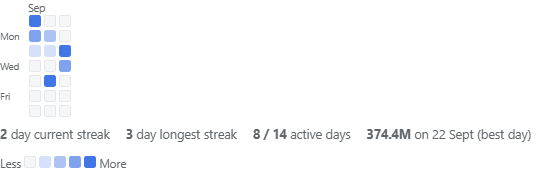
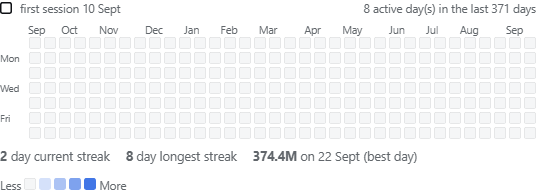
feat: dedupe the page, anchor the calendar to the right, mark the first session
- host: the contribution window is a fixed 53 weeks (newest day last), the wire
  carries only days with activity, and firstDay/firstSessionAt ride along
- client: expand the sparse calendar, ring the first-session day and name it in
  the caption; a year of empty squares stays to its left
- client: the header is identity only (no stat block, no badge wall) so no number
  is printed twice; tile hints became definitions; panel subs and the footer lost
  their duplicates

diff --git a/lib/client.js b/lib/client.js
@@ -137,6 +137,10 @@ window.__ModuleLoader__.load({
       ".dtt-streaks{gap:16px;font-size:12.5px;display:flex;flex-wrap:wrap}",
       ".dtt-streak b{font-variant-numeric:tabular-nums}",
       ".dtt-streak span{color:var(--dsw-alias-label-secondary)}",
+      ".dtt-calCaption{align-items:center;gap:8px;font-size:11.5px;color:var(--dsw-alias-label-secondary);display:flex}",
+      ".dtt-calCaptionSpacer{flex:1 1 auto}",
+      ".dtt-calMarker{width:12px;height:12px;border-radius:3px;box-shadow:inset 0 0 0 1.5px var(--dsw-alias-label-primary);display:inline-block}",
+      ".dtt-calCell[data-first='true']{outline:1.5px solid var(--dsw-alias-label-primary);outline-offset:1px}",
       ".dtt-legendCells{gap:3px;display:inline-flex}"
     ].join("");
 
@@ -763,6 +767,13 @@ window.__ModuleLoader__.load({
       return new Date(Number(parts[0]), Number(parts[1]) - 1, Number(parts[2]));
     }
 
+    /** Local YYYY-MM-DD, matching the host's day keys. */
+    function dayKeyOf(date) {
+      var month = String(date.getMonth() + 1);
+      var day = String(date.getDate());
+      return date.getFullYear() + "-" + (month.length < 2 ? "0" + month : month) + "-" + (day.length < 2 ? "0" + day : day);
+    }
+
     function ProfileHeader(props) {
       var identity = props.identity;
       return h("section", { className: "dtt-profile" }, [
@@ -775,12 +786,6 @@ window.__ModuleLoader__.load({
           h("div", { className: "dtt-handle", key: "handle" }, identity.handle),
           h("p", { className: "dtt-bio", key: "bio" }, identity.bio)
         ]),
-        h("div", { className: "dtt-profileStats", key: "stats" }, props.stats.map(function (stat) {
-          return h("div", { className: "dtt-profileStat", key: stat.label }, [
-            h("b", { key: "value" }, stat.value),
-            h("span", { key: "label" }, stat.label)
-          ]);
-        })),
         h("div", { className: "dtt-badges", key: "badges" }, props.badges.map(function (badge) {
           return h("span", { className: "dtt-badge", key: badge.label, "data-tone": badge.tone }, badge.label);
         }))
@@ -795,8 +800,24 @@ window.__ModuleLoader__.load({
     function ContributionCalendar(props) {
       var calendar = props.calendar;
       var streaks = props.streaks === undefined || props.streaks === null ? {} : props.streaks;
-      var days = calendar === undefined || calendar === null || calendar.days === undefined ? [] : calendar.days;
-      if (days.length === 0) return h("p", { className: "dtt-note" }, "No daily activity recorded yet.");
+      if (calendar === undefined || calendar === null || calendar.start === undefined) {
+        return h("p", { className: "dtt-note" }, "No daily activity recorded yet.");
+      }
+      var recorded = new Map();
+      var recordedDays = calendar.days === undefined ? [] : calendar.days;
+      for (var record = 0; record < recordedDays.length; record += 1) recorded.set(recordedDays[record].day, recordedDays[record]);
+      // The host sends only days with activity; the grid is the whole fixed
+      // window — oldest week on the left, today in the last column — so the days
+      // before the first session stay empty squares.
+      var days = [];
+      var walk = new Date(calendar.start);
+      while (walk.getTime() <= calendar.end) {
+        var key = dayKeyOf(walk);
+        var hit = recorded.get(key);
+        days.push(hit === undefined ? { day: key, sessions: 0, tokens: 0, steps: 0, costUsd: null } : hit);
+        walk = new Date(walk.getFullYear(), walk.getMonth(), walk.getDate() + 1);
+      }
+      var firstKey = calendar.firstDay === undefined || calendar.firstDay === null ? null : calendar.firstDay.day;
 
       var offset = parseDayKey(days[0].day).getDay();
       var weeks = [];
@@ -823,7 +844,8 @@ window.__ModuleLoader__.load({
       };
       var cellTitle = function (entry) {
         var cost = entry.costUsd === null || entry.costUsd === undefined ? "" : " · " + fmtUsd(entry.costUsd);
-        return CAL_WEEKDAYS[parseDayKey(entry.day).getDay()] + " " + fmtDay(entry.day) + " — " + fmtTokens(entry.tokens) + " tokens · " + fmtInt(entry.sessions) + " session(s) · " + fmtInt(entry.steps) + " steps" + cost;
+        var marker = entry.day === firstKey ? " · first session" : "";
+        return CAL_WEEKDAYS[parseDayKey(entry.day).getDay()] + " " + fmtDay(entry.day) + " — " + fmtTokens(entry.tokens) + " tokens · " + fmtInt(entry.sessions) + " session(s) · " + fmtInt(entry.steps) + " steps" + cost + marker;
       };
 
       var seenMonth = null;
@@ -836,7 +858,16 @@ window.__ModuleLoader__.load({
         return h("span", { key: String(weekIndex) }, "");
       });
 
+      var activeDays = streaks.activeDays === undefined ? 0 : streaks.activeDays;
+      var windowDays = streaks.totalDays === undefined ? days.length : streaks.totalDays;
+
       return h("div", { className: "dtt-cal" }, [
+        h("div", { className: "dtt-calCaption", key: "caption" }, [
+          h("span", { className: "dtt-calMarker", key: "marker", "data-first": "true" }),
+          h("span", { key: "first" }, firstKey === null ? "no sessions yet" : "first session " + fmtDay(firstKey)),
+          h("span", { className: "dtt-calCaptionSpacer", key: "spacer" }),
+          h("span", { key: "active" }, fmtInt(activeDays) + " active day(s) in the last " + fmtInt(windowDays) + " days")
+        ]),
         h("div", { className: "dtt-calScroll", key: "scroll" }, [
           h("div", { className: "dtt-calMonths", key: "months" }, monthCells),
           h("div", { className: "dtt-calBody", key: "body" }, [
@@ -852,6 +883,7 @@ window.__ModuleLoader__.load({
                   className: "dtt-calCell",
                   key: String(row),
                   "data-level": String(level),
+                  "data-first": entry.day === firstKey ? "true" : undefined,
                   style: level === 0 ? undefined : { backgroundColor: fill[level] },
                   title: cellTitle(entry)
                 });
@@ -863,7 +895,6 @@ window.__ModuleLoader__.load({
           h("div", { className: "dtt-streaks", key: "streaks" }, [
             h("span", { className: "dtt-streak", key: "current" }, [h("b", { key: "value" }, fmtInt(streaks.current)), h("span", { key: "label" }, " day current streak")]),
             h("span", { className: "dtt-streak", key: "longest" }, [h("b", { key: "value" }, fmtInt(streaks.longest)), h("span", { key: "label" }, " day longest streak")]),
-            h("span", { className: "dtt-streak", key: "active" }, [h("b", { key: "value" }, fmtInt(streaks.activeDays) + " / " + fmtInt(streaks.totalDays)), h("span", { key: "label" }, " active days")]),
             streaks.bestDay === null || streaks.bestDay === undefined ? null : h("span", { className: "dtt-streak", key: "best" }, [
               h("b", { key: "value" }, fmtTokens(streaks.bestDay.tokens)),
               h("span", { key: "label" }, " on " + fmtDay(streaks.bestDay.day) + " (best day)")
@@ -1011,7 +1042,7 @@ window.__ModuleLoader__.load({
           label: "Tokens (billed)",
           value: fmtTokens(totals.totalTokens),
           full: fmtInt(totals.totalTokens),
-          hint: fmtInt(totals.sessions) + " sessions · " + fmtInt(totals.steps) + " steps"
+          hint: "in + out + cache read"
         }),
         h(Kpi, {
           key: "billable",
@@ -1025,7 +1056,7 @@ window.__ModuleLoader__.load({
           label: "Cache reads",
           value: fmtTokens(totals.usage.cacheReadTokens),
           full: fmtInt(totals.usage.cacheReadTokens),
-          hint: fmtPct(totals.cacheHitRate) + " hit rate",
+          hint: "served from prompt cache",
           tone: totals.cacheHitRate !== null && totals.cacheHitRate !== undefined && totals.cacheHitRate >= 0.9 ? "good" : "warn"
         }),
         h(Kpi, {
@@ -1040,7 +1071,7 @@ window.__ModuleLoader__.load({
           key: "turn",
           label: "Per turn",
           value: fmtTokens(totals.avgTokensPerTurn),
-          hint: fmtInt(totals.turns) + " turns total"
+          hint: "billed ÷ turns"
         }),
         h(Kpi, {
           key: "session",
@@ -1067,7 +1098,7 @@ window.__ModuleLoader__.load({
       var chart = h(Panel, {
         key: "chart",
         title: "Activity",
-        sub: byDaySummary(dayRows),
+        sub: "Daily totals in this window",
         actions: h("div", { className: "dtt-chips" }, METRICS.map(function (entry) {
           return h(Chip, { key: entry.key, label: entry.label, on: entry.key === metric, onClick: function () { setMetric(entry.key); } });
         }))
@@ -1076,7 +1107,6 @@ window.__ModuleLoader__.load({
       var breakdown = h(Panel, {
         key: "breakdown",
         title: "Where the tokens went",
-        sub: "Grouped by " + BREAKDOWN_GROUPS.filter(function (entry) { return entry.key === group; })[0].label.toLowerCase(),
         actions: h("div", { className: "dtt-chips" }, BREAKDOWN_GROUPS.map(function (entry) {
           return h(Chip, { key: entry.key, label: entry.label, on: entry.key === group, onClick: function () { setGroup(entry.key); } });
         }))
@@ -1121,7 +1151,7 @@ window.__ModuleLoader__.load({
       var sessionsPanel = h(Panel, {
         key: "sessions",
         title: "Sessions",
-        sub: fmtInt(data.sessionCount) + " sessions in this window · click a row for per-turn detail",
+        sub: fmtInt(sessions.length) + " of " + fmtInt(data.sessionCount) + " shown · click a row for per-turn detail",
         actions: h("div", { className: "dtt-panelHead", style: { flex: "0 1 auto" } },
           h("input", {
             className: "dtt-input dtt-search",
@@ -1145,16 +1175,14 @@ window.__ModuleLoader__.load({
       }));
 
       var footer = h("div", { className: "dtt-footer", key: "footer" }, [
-        h("span", { key: "scan" }, fmtInt(sources.recordFiles) + " session records read in " + fmtInt(sources.scanMs) + " ms"
-          + (sources.liveSessions > 0 ? " · " + fmtInt(sources.liveSessions) + " live session(s) overlaid" : "")),
+        h("span", { key: "scan" }, fmtInt(sources.recordFiles) + " records · " + fmtInt(sources.scanMs) + " ms"),
         h("span", { key: "took" }, "answered in " + fmtInt(data.tookMs) + " ms" + (summary.cached ? " (cached)" : "")),
-        h("span", { key: "tz" }, timezoneName()),
         h("span", { key: "pricing" }, costKnown
           ? "Costs are estimates from the provider catalog (" + fmtInt(pricing.catalogModels) + " priced models) plus your overrides."
           : "No price data resolved; add prices to " + (pricing.overridesPath || "<home>/token-tracker/pricing.json") + ".")
       ].concat(unpriced.length === 0 ? [] : [
         h("span", { key: "unpriced", title: unpriced.map(function (row) { return row.key + " — " + fmtTokens(row.totalTokens) + " tokens"; }).join("\n") },
-          fmtInt(unpriced.length) + " unpriced route(s): " + unpriced.map(function (row) { return row.model || row.key; }).join(", "))
+          "unpriced: " + unpriced.map(function (row) { return row.model || row.key; }).filter(function (name) { return String(name).indexOf("(unknown)") === -1; }).join(", "))
       ]));
 
       var problems = sources.problemCount > 0
@@ -1166,40 +1194,24 @@ window.__ModuleLoader__.load({
         })
         : null;
 
-      // Profile header: the page's identity strip, then the stat tiles and the
-      // contribution grid — the "profile" reading of the same numbers.
+      // The header carries identity only — every number it used to repeat lives
+      // once, in the tile or panel it belongs to below.
       var streaks = data.streaks === undefined || data.streaks === null ? {} : data.streaks;
-      var coverage = totals.costCoverage === null || totals.costCoverage === undefined ? null : totals.costCoverage;
       var profile = h(ProfileHeader, {
         key: "profile",
         identity: {
           title: "DeepSeek Harness",
-          handle: timezoneName() + " · " + (data.range.days === 0 ? "all time" : "last " + fmtInt(data.range.days) + " days") + " · " + fmtInt(sources.recordFiles) + " session records",
-          bio: fmtInt(totals.sessions) + " sessions · " + fmtInt(totals.turns) + " turns · " + fmtInt(totals.steps) + " steps · " + fmtDuration(totals.llmMs) + " of LLM time"
-            + (totals.avgTokensPerTurn === null || totals.avgTokensPerTurn === undefined ? "" : " · " + fmtTokens(totals.avgTokensPerTurn) + " per turn"),
+          handle: (sources.home === undefined ? "" : sources.home + " · ") + timezoneName(),
+          bio: (data.byWorkspace || []).length + " workspaces · " + fmtInt(totals.turns) + " turns · " + fmtInt(totals.steps) + " steps",
           live: sources.liveSessions
         },
-        stats: [
-          { label: "tokens", value: fmtTokens(totals.totalTokens) },
-          { label: "sessions", value: fmtInt(totals.sessions) },
-          { label: "est. cost", value: fmtUsd(totals.costUsd) },
-          { label: "cache hit", value: fmtPct(totals.cacheHitRate) }
-        ],
-        badges: [
-          { label: fmtTokens(totals.billableTokens) + " new tokens" },
-          { label: fmtTokens(totals.usage.uncachedInputTokens) + " in · " + fmtTokens(totals.usage.outputTokens) + " out" },
-          { label: fmtPct(totals.cacheReadShareOfBilled) + " of billed is cache reads" },
-          coverage === null
-            ? { label: "cost coverage unknown", tone: "warn" }
-            : { label: fmtPct(coverage) + " of sessions priced", tone: coverage >= 0.8 ? "good" : "warn" },
-          { label: fmtInt(pricing.catalogModels) + " priced catalog models" },
-          { label: fmtDuration(totals.llmMs) + " LLM time" }
-        ].concat(unpriced.length === 0 ? [] : [{ label: fmtInt(unpriced.length) + " unpriced route(s)", tone: "warn" }])
+        badges: unpriced.length === 0
+          ? []
+          : [{ label: fmtInt(unpriced.length) + " unpriced route(s)", tone: "warn" }]
       });
       var calendarPanel = h(Panel, {
         key: "calendar",
-        title: "Contribution activity",
-        sub: fmtInt(streaks.activeDays === undefined ? 0 : streaks.activeDays) + " active days · " + fmtInt(streaks.totalDays === undefined ? 0 : streaks.totalDays) + " days tracked · " + fmtInt(totals.sessions) + " sessions"
+        title: "Contribution activity"
       }, h(ContributionCalendar, { calendar: data.calendar, streaks: streaks }));
 
       return h("div", { className: "dtt-root" }, [

diff --git a/lib/index.js b/lib/index.js
@@ -593,48 +593,64 @@ function buildCalendar(records, now) {
     if (oldest === null || session.createdAt < oldest) oldest = session.createdAt
   }
 
+  // The window is fixed (53 weeks) so the newest day always sits in the last
+  // column and the days before the first session stay empty squares. Only days
+  // with activity travel on the wire — the browser fills the gaps start → end.
   const end = startOfDay(now)
-  const floor = startOfDay(now - (CALENDAR_DAYS - 1) * DAY_MS)
-  const start = oldest === null ? end : Math.max(floor, startOfDay(oldest))
+  const start = startOfDay(now - (CALENDAR_DAYS - 1) * DAY_MS)
   const days = []
+  const active = []
+  let longest = 0
+  let run = 0
+  let activeDays = 0
+  let firstDay = null
+  let best = null
   let cursor = new Date(start)
   while (cursor.getTime() <= end) {
     const key = dayKey(cursor.getTime())
     const entry = daily.get(key)
-    days.push(entry === undefined
-      ? { day: key, sessions: 0, tokens: 0, billableTokens: 0, cacheReadTokens: 0, steps: 0, turns: 0, costUsd: null }
-      : { sessions: entry.sessions, tokens: entry.tokens, billableTokens: entry.billableTokens, cacheReadTokens: entry.cacheReadTokens, steps: entry.steps, turns: entry.turns, day: key, costUsd: entry.priced === 0 ? null : entry.costUsd })
+    if (entry !== undefined && entry.sessions > 0) {
+      active.push(true)
+      activeDays += 1
+      run += 1
+      if (run > longest) longest = run
+      const shaped = {
+        day: key,
+        sessions: entry.sessions,
+        tokens: entry.tokens,
+        billableTokens: entry.billableTokens,
+        cacheReadTokens: entry.cacheReadTokens,
+        steps: entry.steps,
+        turns: entry.turns,
+        costUsd: entry.priced === 0 ? null : entry.costUsd,
+      }
+      if (firstDay === null) firstDay = shaped
+      if (best === null || entry.tokens > best.tokens) best = { day: key, tokens: entry.tokens, sessions: entry.sessions }
+      days.push(shaped)
+    } else {
+      active.push(false)
+    }
     cursor = new Date(cursor.getFullYear(), cursor.getMonth(), cursor.getDate() + 1)
   }
 
   // Streaks read like GitHub's: consecutive days with at least one session.
-  let longest = 0
-  let run = 0
-  for (const entry of days) {
-    if (entry.sessions > 0) {
-      run += 1
-      if (run > longest) longest = run
-    } else {
-      run = 0
-    }
-  }
   let current = 0
-  for (let index = days.length - 1; index >= 0; index -= 1) {
-    if (days[index].sessions > 0) current += 1
+  for (let index = active.length - 1; index >= 0; index -= 1) {
+    if (active[index]) current += 1
     else break
   }
-  const activeDays = days.filter((entry) => entry.sessions > 0).length
-  const best = days.reduce((winner, entry) => (winner === null || entry.tokens > winner.tokens ? entry : winner), null)
   return {
     start,
     end,
     days,
+    firstDay,
+    firstSessionAt: oldest,
     streaks: {
       current,
       longest,
       activeDays,
-      totalDays: days.length,
-      bestDay: best === null ? null : { day: best.day, tokens: best.tokens, sessions: best.sessions },
+      totalDays: active.length,
+      bestDay: best,
     },
   }
 }
@@ -788,7 +804,7 @@ function aggregate(records, options) {
     range: { days, from, to: now },
     totals: totalsPayload,
     byDay,
-    calendar: { start: calendar.start, end: calendar.end, days: calendar.days },
+    calendar: { start: calendar.start, end: calendar.end, days: calendar.days, firstDay: calendar.firstDay, firstSessionAt: calendar.firstSessionAt },
     streaks: calendar.streaks,
     byModel,
     byProvider,

diff --git a/README.md b/README.md
@@ -41,17 +41,18 @@ Numbers from the author's own harness (142 sessions, six workspaces):
 
 ## Features
 
-**Profile header** — an identity strip in the shape of a profile page: the graph
-avatar, the harness identity plus timezone, headline stats (tokens, sessions,
-est. cost, cache hit), and a badge row (new tokens, in/out split, cache-read
-share of what was billed, cost coverage, priced catalog models, LLM time,
-unpriced routes, live overlays).
+**Profile header** — a deliberately minimal identity strip: the graph avatar, the
+harness identity, home directory and timezone, then one line of counting facts
+(workspaces · turns · steps). Every number lives in exactly one place — the
+header repeats nothing that a tile or panel below already states.
 
-**Contribution graph** — a 53-week contribution grid, one 12px square per day,
-with month labels, weekday rails, per-day tooltips (tokens · sessions · steps ·
-cost), a Less→More legend, and streak lines: current streak, longest streak,
-active days, best day. Level thresholds are sqrt-scaled, so one 375M-token day
-cannot flatten every other day to the first step.
+**Contribution graph** — a fixed 53-week grid, one 12px square per day: the
+newest day is always in the last column, the days before your first session stay
+empty squares, and that first session is ringed and named in the caption. Month
+labels, weekday rails, per-day tooltips (tokens · sessions · steps · cost), a
+Less→More legend, and streak lines (current, longest, best day). Level thresholds
+are sqrt-scaled, so one 375M-token day cannot flatten every other day to the
+first step.
 
 **Graph icon on the section's nav row** — the settings shell paints a fallback
 gear on every section that declares no icon (the section API takes `id` / `order`
